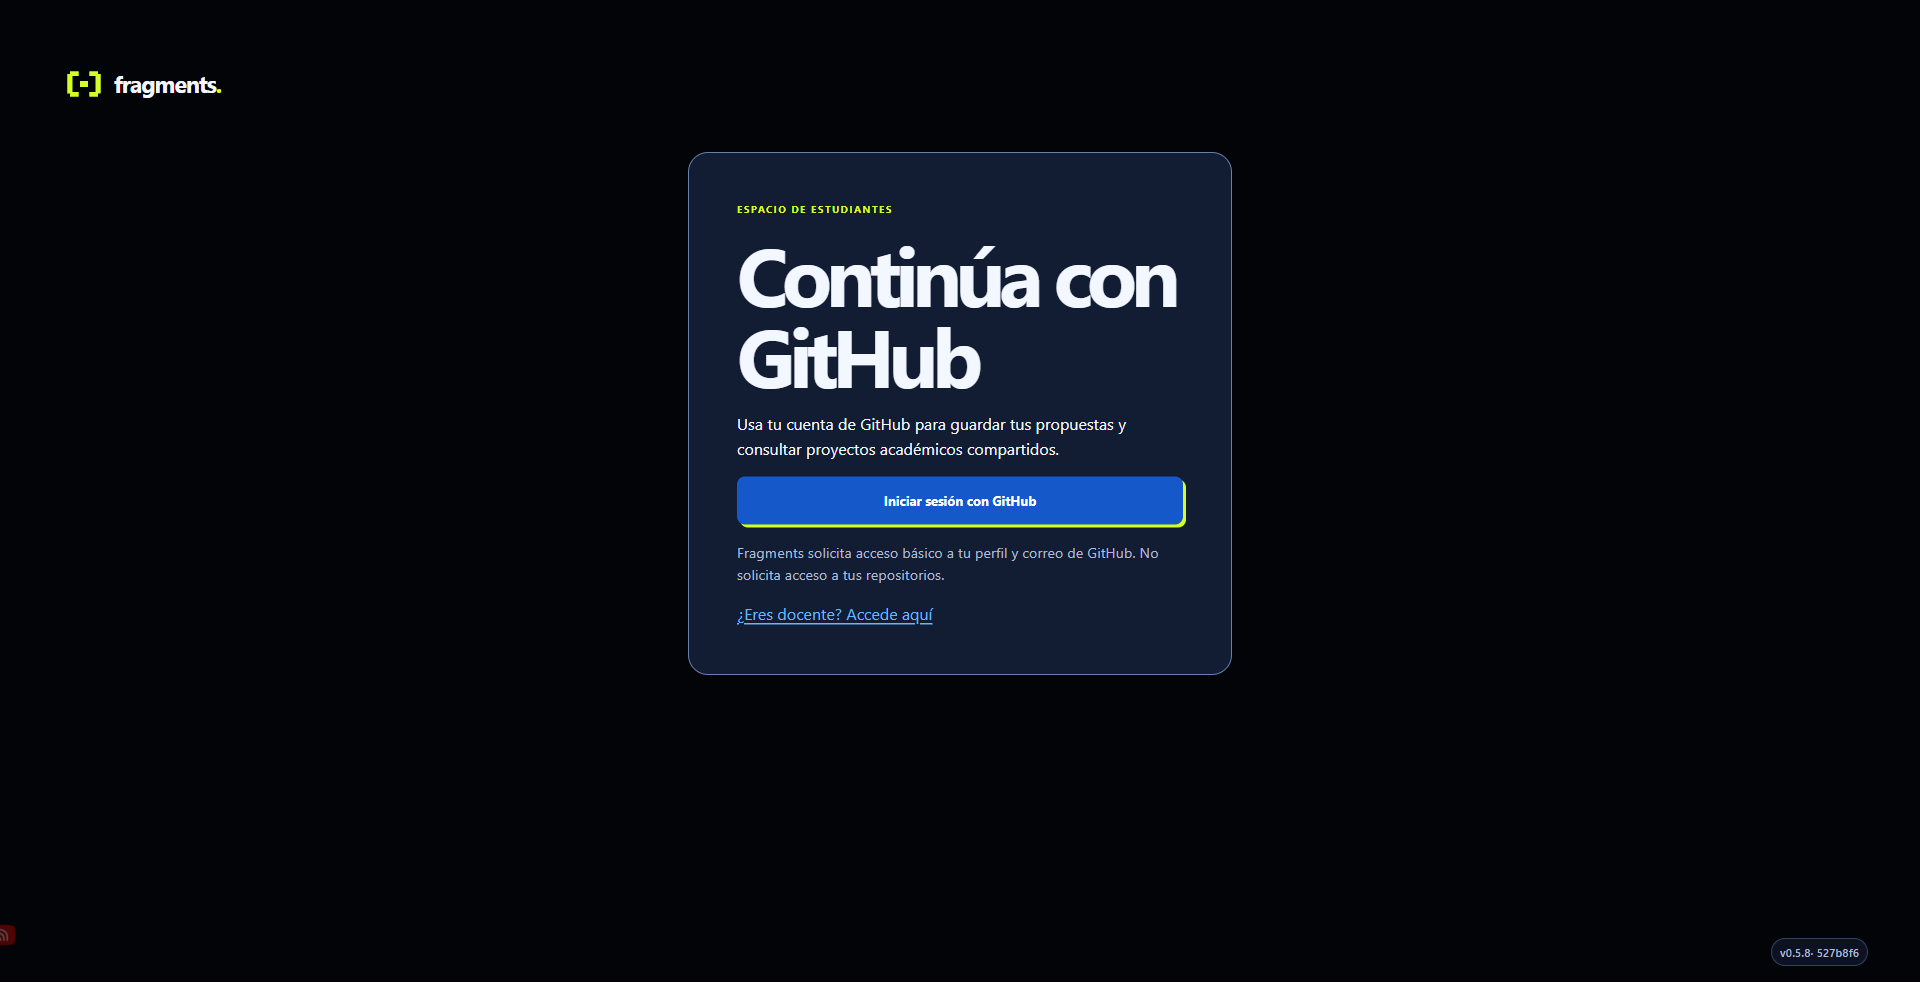
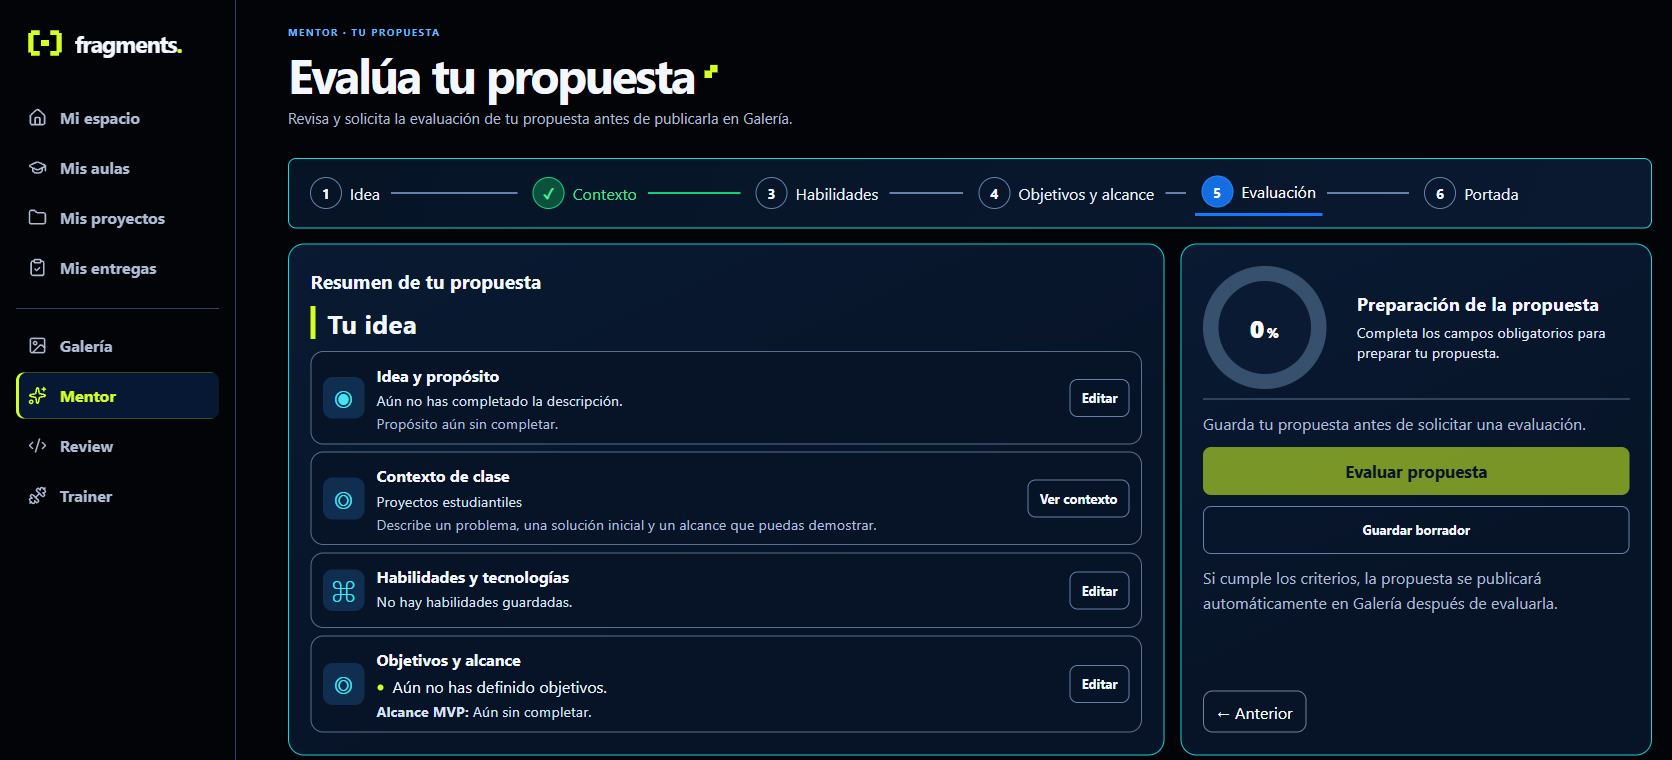
docs(ux-09): cierra verificación autenticada
- Actualiza evidencia Ego Lite de producción y estado vacío autenticado\n- Corrige informes, lista de tareas y captura con privacidad

diff --git a/task-list/UX-09/evidencie.md b/task-list/UX-09/evidencie.md
@@ -27,8 +27,13 @@ Agente B: **PASS visual e interacción local con fixtures**. Sin overflow a 320/
 - Verificación pública posterior: `GET /health` HTTP 200, `status=ok`, `database=ready`; `/` y bundle JS `/assets/index-DmKyggnV.js` HTTP 200, 522334 bytes. El bundle contiene `v0.5.8` y el SHA completo `527b8f66440819e72f73366014f78e0a3aa5a991`.
 - Ego Lite abrió `/student/mentor` en producción en modo no destructivo. La app devolvió la pantalla pública «Continúa con GitHub» y el indicador de build muestra `v0.5.8 · 527b8f6`; el flujo de evaluación no fue visible porque esta sesión no tenía autenticación. Captura `ego-produccion-v058.png`. No se inició OAuth ni se hicieron escrituras en producción.
 
-## Pendiente
-La etapa de Evaluación aún requiere un recorrido visual autenticado en producción. Ego Lite llegó correctamente a la pantalla de inicio de sesión, sin autenticar ni modificar datos. No declarar la validación visual de la ruta autenticada hasta que se complete ese recorrido.
+## Verificación visual autenticada en producción
+- Con Ego Lite, una vez autenticada la sesión existente, se abrió `/student/mentor` en el viewport de 1672 px y se seleccionó la etapa 5 «Evaluación». La producción muestra el stepper horizontal con Evaluación activa y el build `v0.5.8` con SHA completo `527b8f66440819e72f73366014f78e0a3aa5a991`.
+- La cuenta no tenía una propuesta guardada: la rueda mostró 0 %, «Evaluar propuesta» estuvo deshabilitado y «Guardar borrador» disponible. Es el estado vacío real; no se introdujo contenido ni se guardó, evaluó o publicó nada en producción.
+- Captura auténtica `ego-produccion-v058.png`, recortada para retirar identidad y pie de página, conservando navegación y pantalla. Evidencia total del directorio: 20 archivos incluido el informe.
+- Esto verifica renderizado autenticado, navegación y gating en producción. No verifica una evaluación productiva con datos ni una escritura de punta a punta. Persistencia, aislamiento por usuario y versión están cubiertos por pruebas API/UI locales y la base PostgreSQL aislada `fragments_test`, con proveedor de evaluación controlado.
+- Se instaló y leyó la skill disponible `vercel-react-best-practices` (nombre del registro), y se revisaron las reglas aplicables de estado derivado, actualizaciones funcionales, componentes y cargas. El diseño existente ya las cumple; no hizo falta refactor.
+- La revisión visual local independiente registró que el foco `:focus-visible` no quedó confirmado en su captura. La regla CSS está definida en `apps/web/src/features/mentor/mentor-screen.css`; no se afirma aquí una comprobación visual de teclado/foco en producción.
 
 ## Commits
 - UI inicial: `8f88ab8fc654275f00cf0dc478b321703c64b5bc`.

diff --git a/task-list/TASKS.md b/task-list/TASKS.md
@@ -16,7 +16,7 @@ Regla: marcar `[x]` únicamente cuando `task-list/<ID>/evidencie.md` contiene co
 | F09 | PLANNER | F02,F04 | Descarga de plantilla DOCX e importación local editable en Mentor; pruebas del flujo existente | [x] |
 | F10 | PLANNER | F08,F09 | Trainer: Review→sorteo→reto→pistas→progreso→historial→repaso; separación Inspector, Ego Lite y paquete de evidencia local ≤20 archivos | [x] |
 | F10.1 | PLANNER | F10 | Completar banco variado de retos desde Review verificado; reutilizarlo, admitir repaso, probar concurrencia y recorrer fixture pública sin ejecutar su código; evidencia local ≤20 archivos; commits `4133219a`/`3cda9a4` | [x] |
-| UX-09 | PLANNER | F17, F18.A | PR #78 merge `527b8f6`; CI `44956236067` PASS; F14 `v0.5.8` / run `44956744577` PASS. 306 tests, Ego Lite local PASS en seis viewports; producción health, bundle y build version verificados. Captura de `/student/mentor` llega a login; recorrido autenticado pendiente. Evidencia `task-list/UX-09/evidencie.md`, `F17_UX09_EVIDENCIAS/` (20 archivos). | [ ] |
+| UX-09 | PLANNER | F17, F18.A | PR #78 merge `527b8f6`; CI `44956236067` PASS; F14 `v0.5.8` / run `44956744577` PASS. 306 tests, Ego Lite local PASS en seis viewports. Producción: health, bundle y SHA verificados; Ego Lite autenticado confirmó etapa 5, estado vacío 0% y CTA deshabilitado sin escrituras. Evidencia `task-list/UX-09/evidencie.md`, `F17_UX09_EVIDENCIAS/` (20 archivos; captura recortada para privacidad). Foco visual no confirmado. | [x] |
 | F11 | PLANNER | F10 | Control docente Mentor: editar y publicar una configuración temática/rúbrica; evaluación estructurada con puntaje de servidor, deduplicación y consulta histórica versionada | [x] |
 | F12 | PLANNER | F10.1,F11 | Integración local v0.3.0: migraciones unificadas, recorridos Mentor→Review→Trainer→Inspector, QA funcional y evidencia privada ≤20 archivos | [x] |
 | F13 | PLANNER | F12 | Indicador de versión web con metadata del build validada contra tag anotada, SHA exacto y `origin/main`; build candidato manual sin despliegue | [x] |

diff --git a/F17_UX09_EVIDENCIAS/INFORME_FINAL.md b/F17_UX09_EVIDENCIAS/INFORME_FINAL.md
@@ -24,7 +24,9 @@ UX-09 quedó integrada mediante PR #78; `verify` run `44956236067` pasó y el me
 
 Producción responde `/health` 200 (`status=ok`, `database=ready`), y `/` y `/assets/index-DmKyggnV.js` responden 200. El bundle (522334 bytes) contiene la versión `v0.5.8` y el SHA completo `527b8f66440819e72f73366014f78e0a3aa5a991`. Ego Lite abrió `/student/mentor` sin acciones destructivas: la sesión no autenticada fue dirigida a «Continúa con GitHub»; el indicador visible confirma `v0.5.8 · 527b8f6`. No se inició OAuth ni se mutó producción. Captura: `ego-produccion-v058.png`.
 
-La revisión visual autenticada de la etapa Evaluación queda pendiente porque el acceso productivo exige iniciar sesión y no se completó autenticación durante esta verificación. La revisión visual local independiente de Agente B sí dio PASS en 320, 390, 768, 1024, 1440 y 1672 px con fixtures; véase `REVISION_AGENT_B_POST_UX08.md`.
+Después, Ego Lite verificó la sesión autenticada en `/student/mentor`, viewport de 1672 px, seleccionó la etapa 5 «Evaluación» y confirmó el stepper horizontal, la etapa activa y el build `v0.5.8` con SHA completo. La cuenta no tenía propuesta guardada: se mostró 0 % y «Evaluar propuesta» deshabilitado. No se guardó ni evaluó información, ni hubo escrituras en producción. La captura auténtica `ego-produccion-v058.png` se recortó para proteger la identidad visible. Esto cierra la comprobación del renderizado autenticado y del estado vacío, no una evaluación productiva con una propuesta real.
+
+La revisión visual local independiente de Agente B dio PASS en 320, 390, 768, 1024, 1440 y 1672 px con fixtures; véase `REVISION_AGENT_B_POST_UX08.md`. El foco `:focus-visible` no quedó confirmado visualmente por esa revisión; la regla CSS sí está presente en `apps/web/src/features/mentor/mentor-screen.css`. Se revisó la skill disponible `vercel-react-best-practices` y no se requirieron cambios adicionales.
 
 ## Commits UX-09
 - UI y evidencia inicial: `8f88ab8fc654275f00cf0dc478b321703c64b5bc`.
